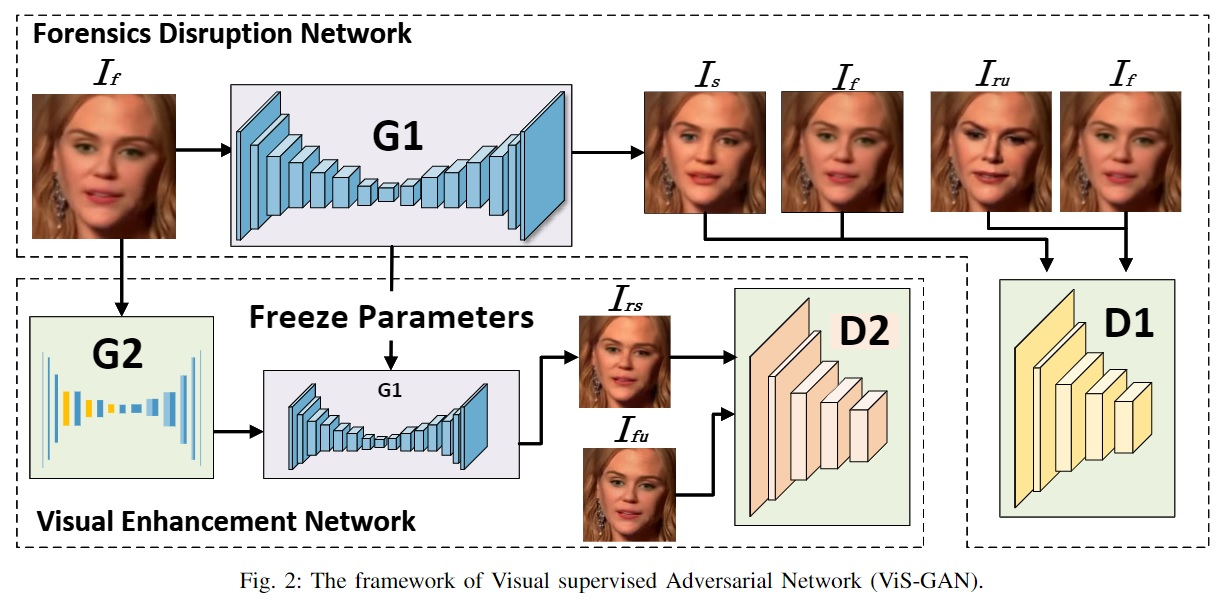
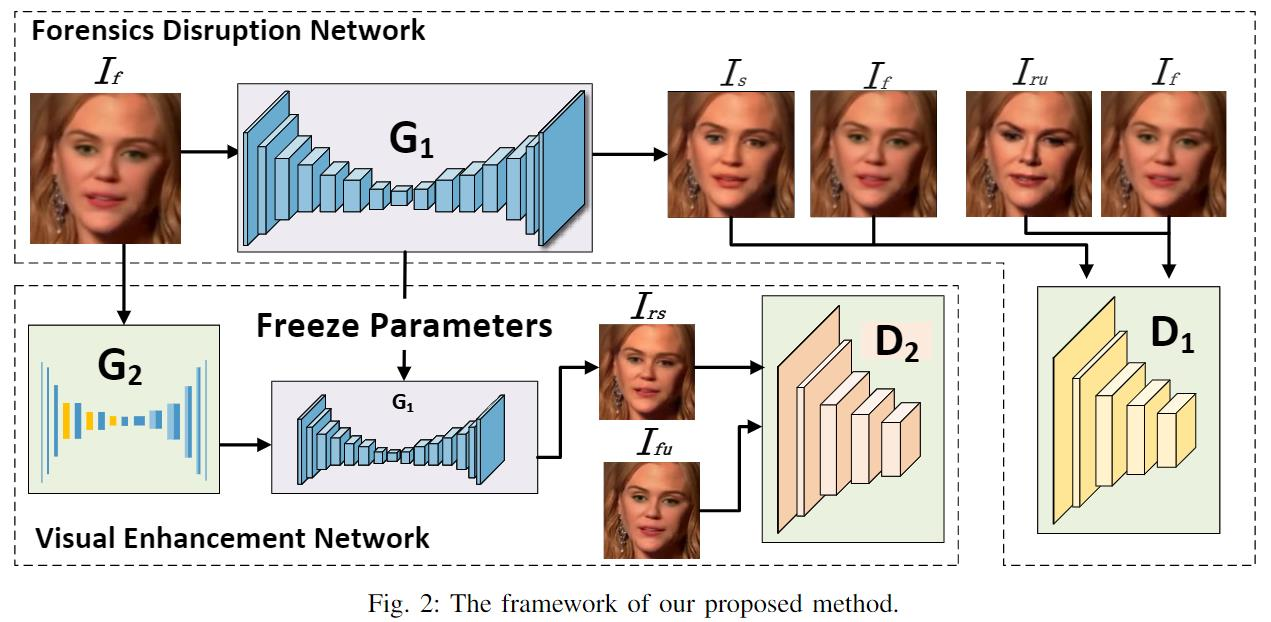
remove name

Changed region(s): [[0.0, 0.0, 0.9886, 1.0], [0.9577, 0.0625, 0.9886, 0.0938], [0.7724, 0.875, 0.8033, 0.9062]]

diff --git a/README.md b/README.md
@@ -1,5 +1,5 @@
-### ViS-GAN
-_Generating Higher Quality Anti-Forensics DeepFakes with Adversarial Sharpening Mask_
+### Generating Higher Quality Anti-Forensics DeepFakes with Adversarial Sharpening Mask
+
 #### Authors
 #### Abstract
 DeepFake, an artificial intelligent technology which can automatically synthesize facial forgeries has recently attracted worldwide attention. Albeit DeepFakes can be applied to entertain people, it can also be employed to spread falsified information or even be weaponized amid information war. So far, forensics researchers have been dedicated to designing new algorithms to resist such disinformation. On the other hand, there are techniques developed to make DeepFake products more aggressive. For instance, by launching anti-forensics attacks, DeepFakes can be disguised as pristine media that can disrupt forensics detectors. However, it usually sacrifices image qualities for achieving satisfactory undetectability in anti-forensics attacks. To address this issue, we propose a method to generate the novel adversarial sharpening mask. Unlike many existing arts, with such masks worn, DeepFakes could achieve high anti-forensics performance while exhibiting pleasant sharpening visual effects. After experimental evaluations, we prove that the proposed method could successfully disrupt the state-of-the-art DeepFake detectors. Besides, compared with the images processed by existing DeepFake anti-forensics methods, the qualities of anti-forensics images produced by the proposed method are significantly improved.
